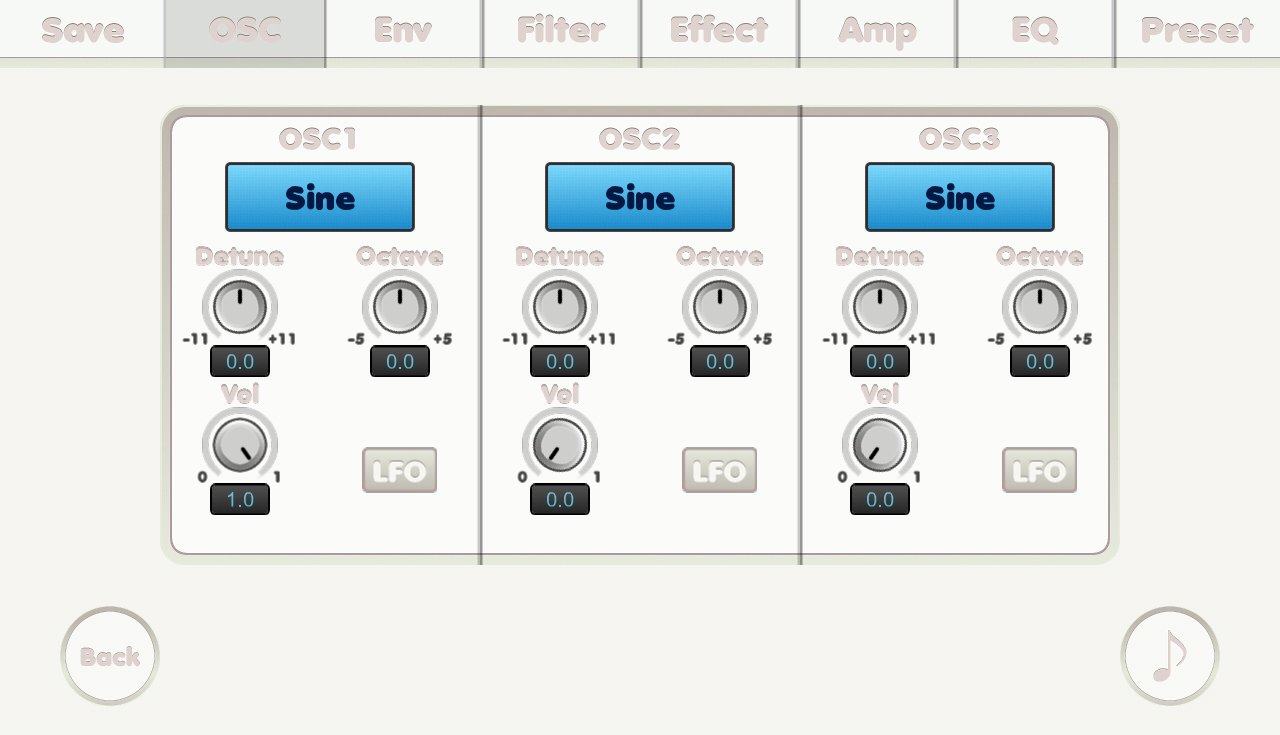
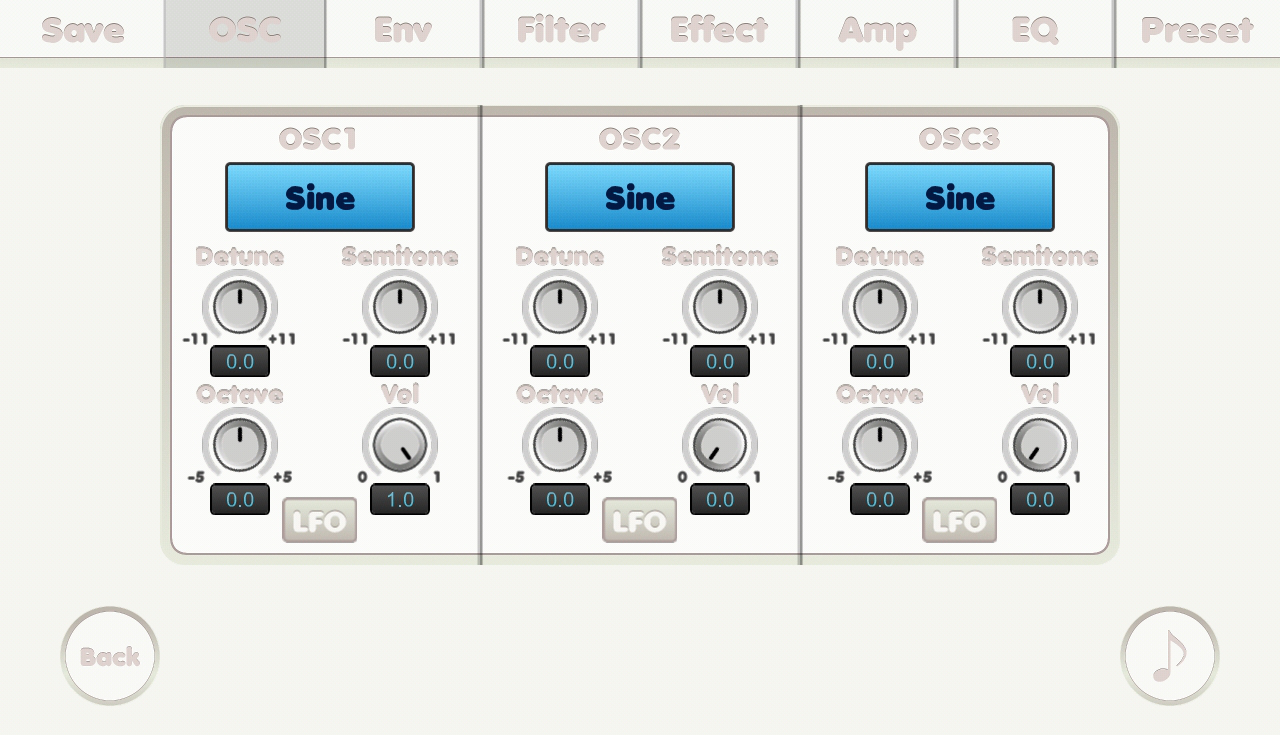
updated: semitone

diff --git a/gameSoundFX/osc.html b/gameSoundFX/osc.html
@@ -20,7 +20,8 @@ tags : [Game Sound FX Generator]
 			<li>Noise</li>
 		</ul>
 	</li>
-	<li>Detune knob: detune. 1 / 12 tone</li>
+	<li>Detune knob: detune. increment or decrement 1 / 12 tone</li>
+	<li>Semitone knob: semitone. increment or decrement half tone</li>
 	<li>Octave knob: octave.</li>
 	<li>Volume knob: volume. Turn this knob will turn the OSC on.</li>
 	<li>LFO button: leads you to LFO screen.</li>
